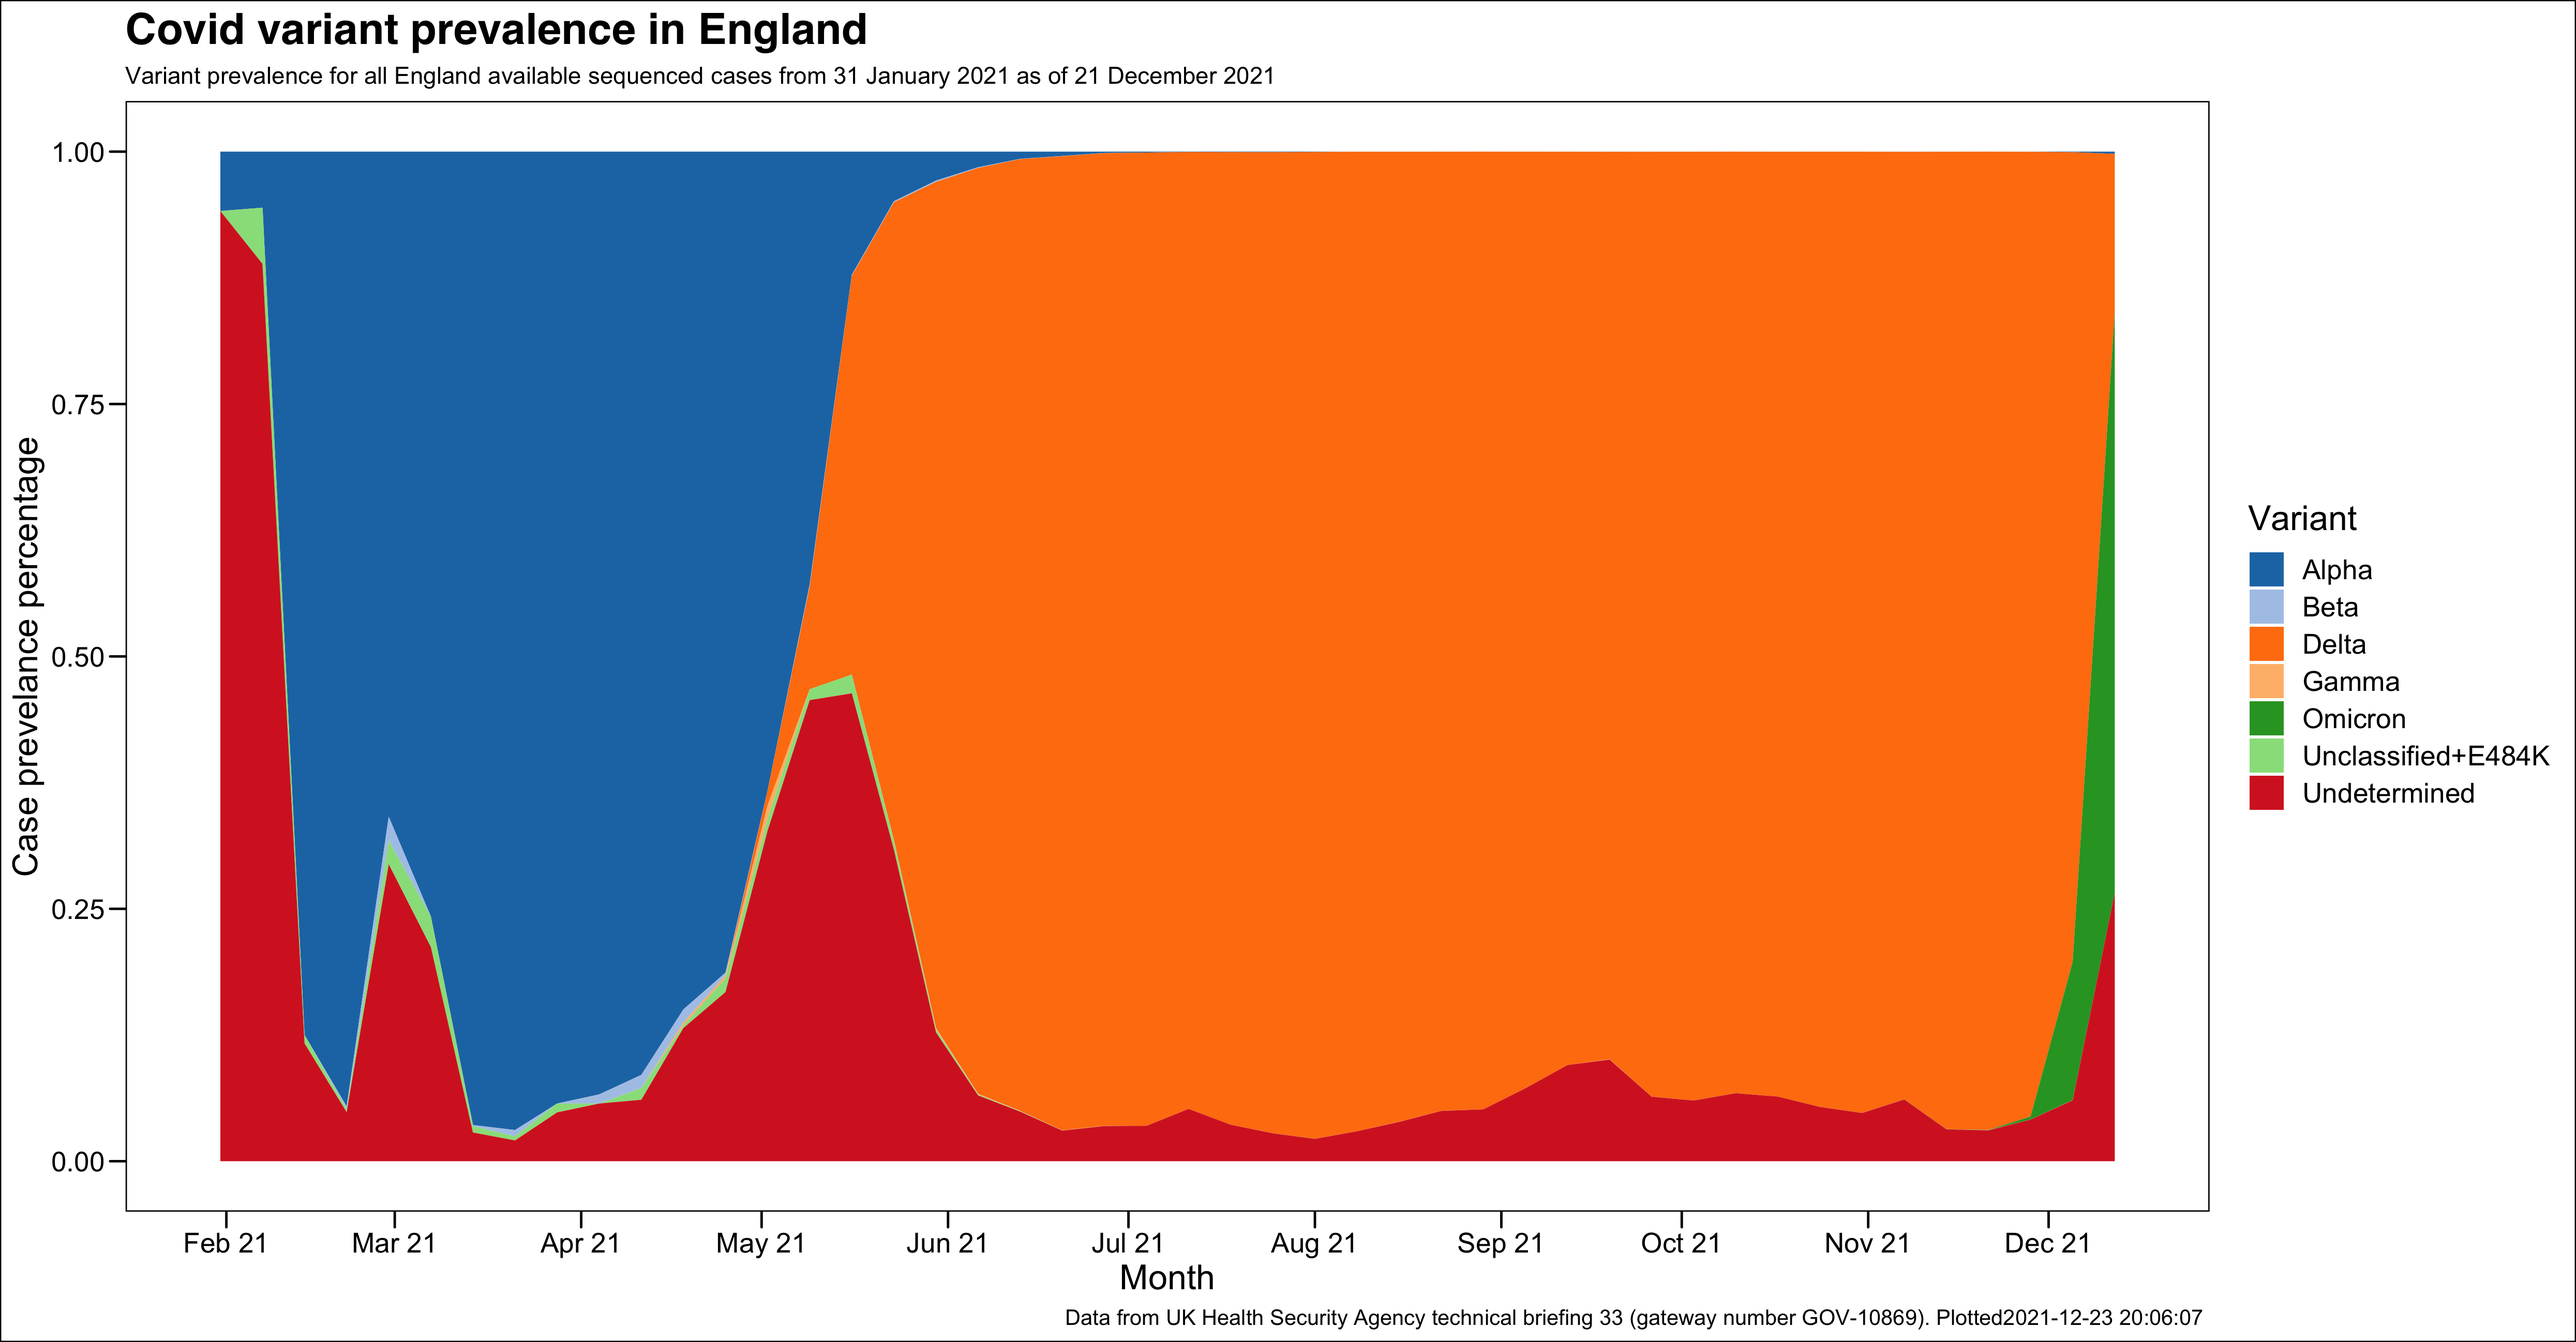
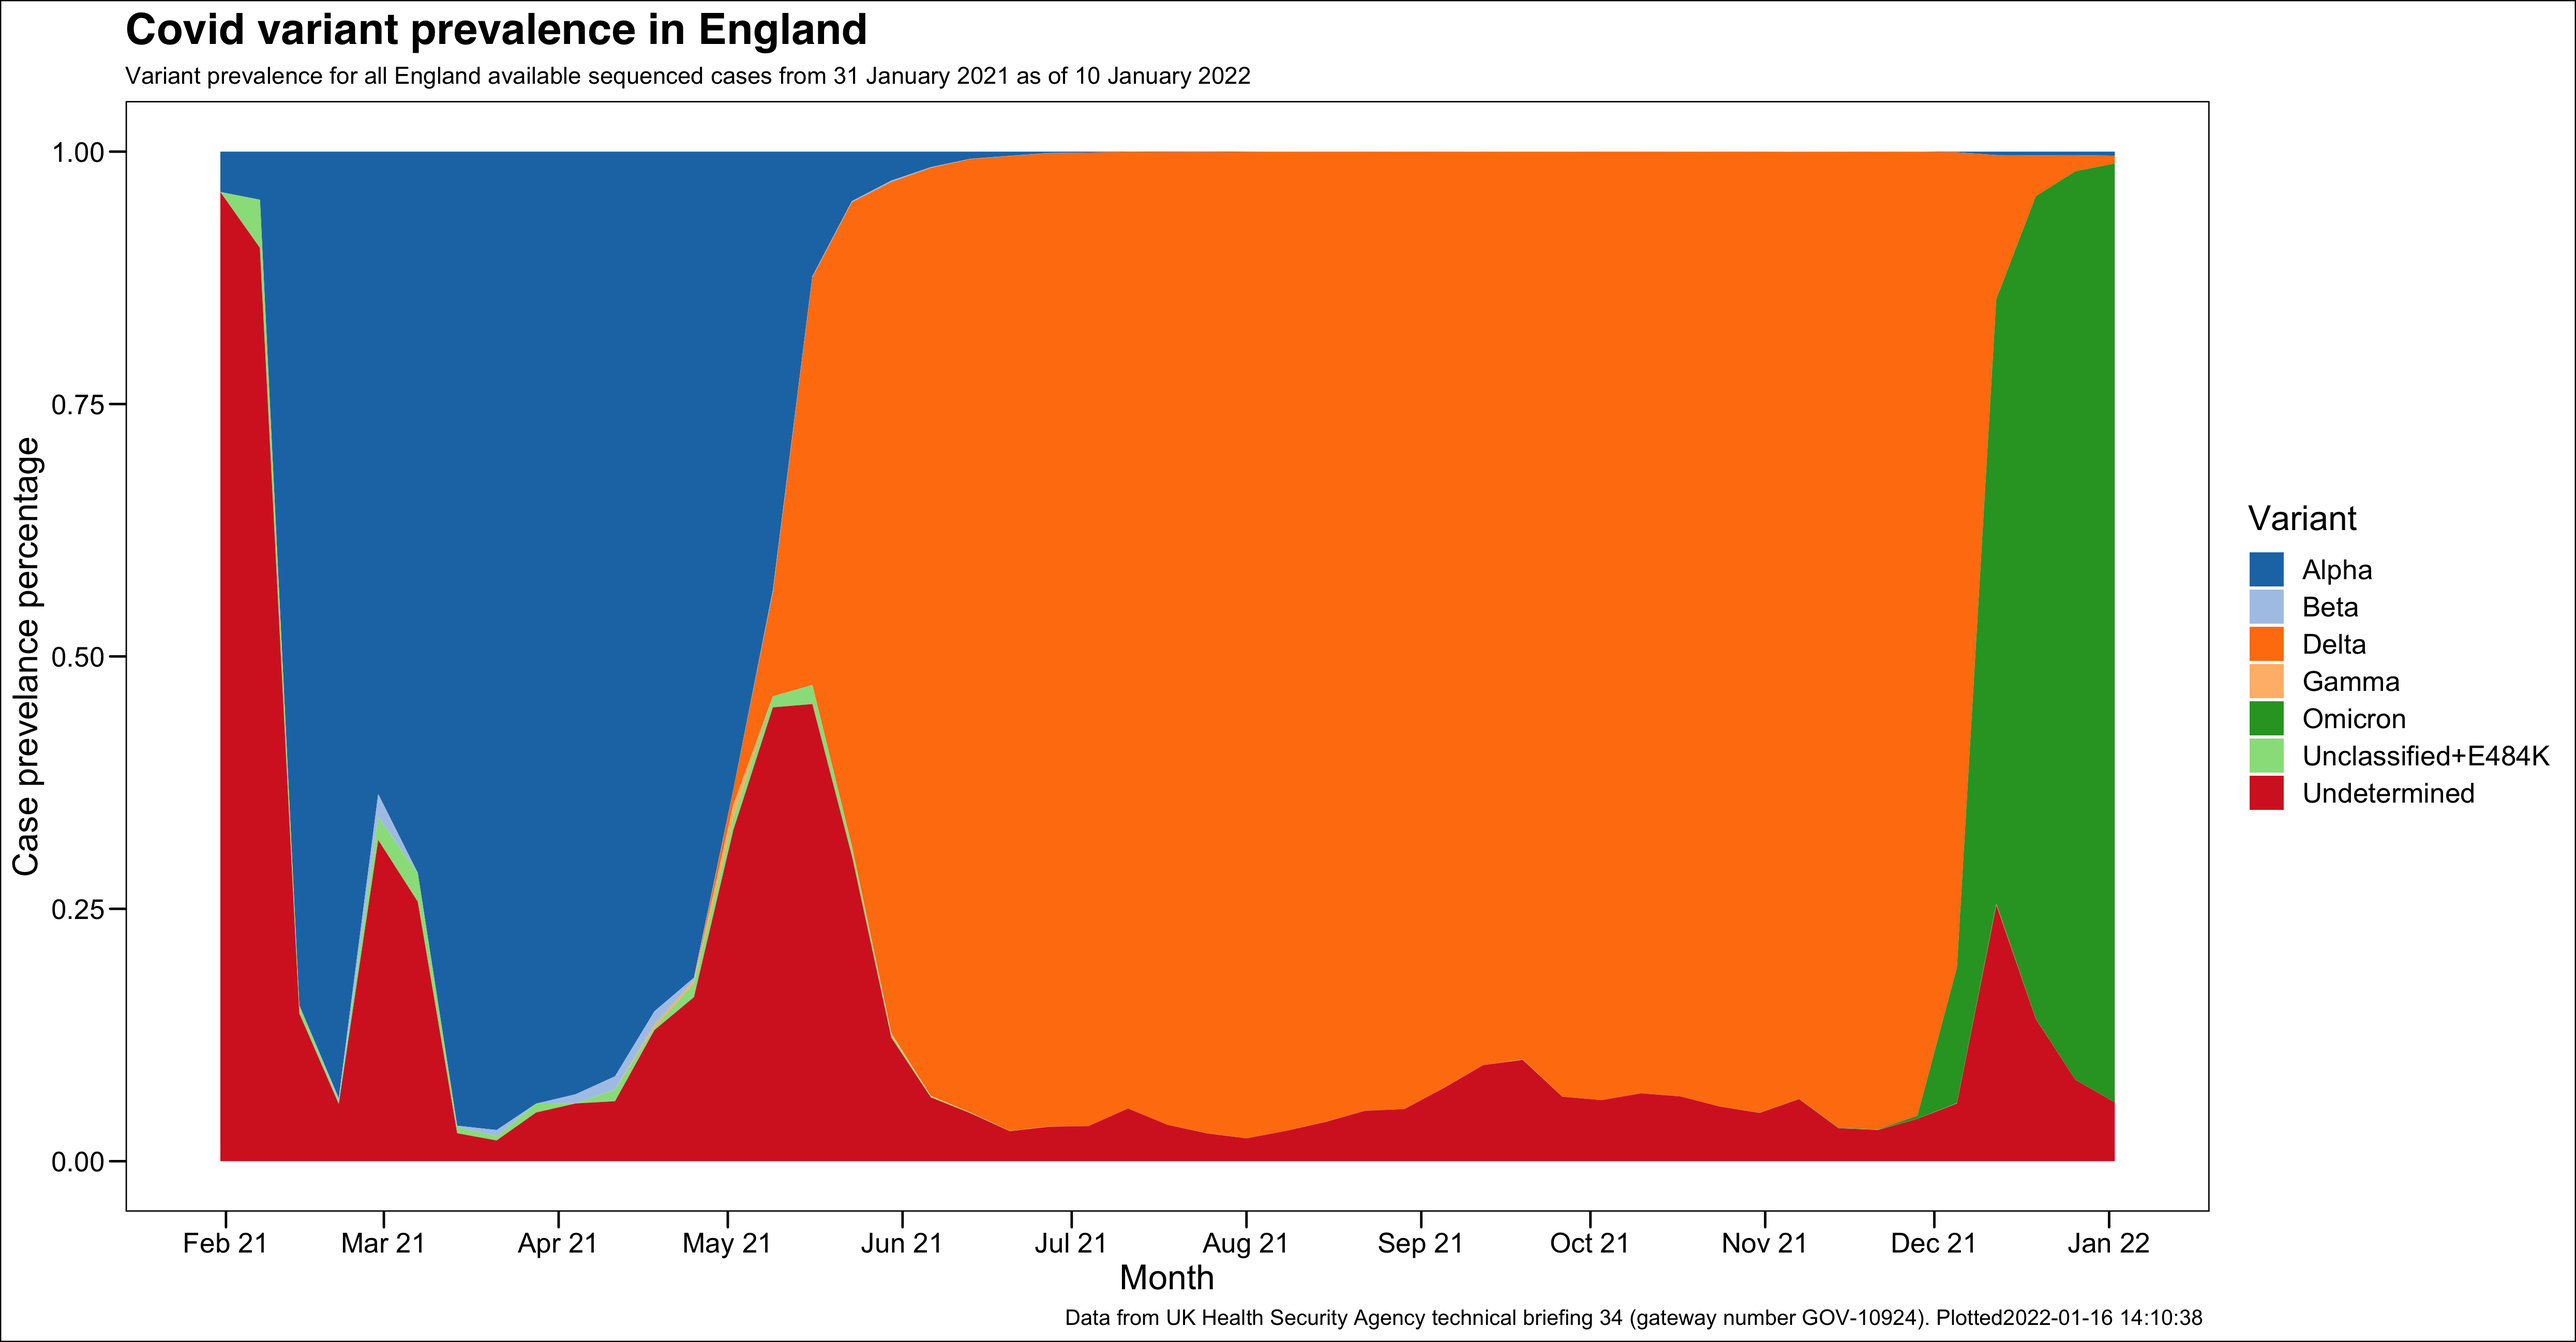
variant update 34

diff --git a/insights.MD b/insights.MD
@@ -21,13 +21,13 @@ Google publish country level summaries of this data on their website but make mo
 [View the underlying code that produces this plot](https://github.com/aharriso11/dorset_covid/blob/main/scripts/google%20mobility.R)
 
 ## Covid variant prevalence
-This data set is made available by the [UK Health Security Agency](https://www.gov.uk/government/organisations/uk-health-security-agency) as part of their [covid technical briefings](https://www.gov.uk/government/publications/investigation-of-sars-cov-2-variants-technical-briefings). These briefings are released fairly frequently but on an irregular basis. The most recent briefing (number 33) was released on 23rd December 2021 and provides information on cases sequenced between 31st January and 21st December.
+This data set is made available by the [UK Health Security Agency](https://www.gov.uk/government/organisations/uk-health-security-agency) as part of their [covid technical briefings](https://www.gov.uk/government/publications/investigation-of-sars-cov-2-variants-technical-briefings). These briefings are released fairly frequently but on an irregular basis. The most recent briefing (number 34) was released on 14th January 2022 and provides information on cases sequenced between 31st January 2021 and 10th January 2022.
 
 The variant prevalence data set shows the overwhelming prevalence of the Alpha "Kent" variant throughout the winter and into spring, whereupon it is quickly edged out by the Delta variant through May and June. The Omicron variant appears in late November and quickly begins to edge out the Delta variant.
 
 [![Variant data](./output/england_variants.png)](./output/england_variants.png?raw=true)
 
-[View the underlying code that produces this plot](https://github.com/aharriso11/dorset_covid/blob/main/scripts/Variant%20prevalence/covid%20d%20o%20age%2033.R)
+[View the underlying code that produces this plot](https://github.com/aharriso11/dorset_covid/blob/main/scripts/Variant%20prevalence/covid%20d%20o%20age%2034.R)
 
 ## A comparison of covid vaccination status with deprivation
 This data plot combines two data sets: the percentage of people who have not yet received  a first covid vaccination, plotted against the [index of multiple deprivations](https://www.gov.uk/government/statistics/english-indices-of-deprivation-2019) score in their area. The data plot shows:

diff --git a/README.md b/README.md
@@ -79,11 +79,15 @@ A dynamic data plot showing the new cases broken down by age which can also be s
 The metric description of this chart comes from the [newly published metrics documentation](https://coronavirus.data.gov.uk/metrics/doc/uniqueCasePositivityBySpecimenDateRollingSum) on the UKHSA dashboard.
 [![Dorset case positivity comparison](./output/daily_test_positivity.png)](./output/daily_test_positivity.png?raw=true)
 
-## Dorset daily lateral flow device tests recorded
-This chart shows the number of lateral flow device tests (both negative and positive) being recorded each day, broken down by local authority. A negative and positive breakdown is not available at local authority level, for more information on testing [visit the relevant page of the UKHSA dashboard](https://coronavirus.data.gov.uk/details/testing)
-[![Dorset daily LFD tests](./output/daily_lfd.png)](./output/daily_lfd.png)
+## Dorset daily covid tests recorded
+This chart shows the number of PCR and lateral flow device tests (both negative and positive) being recorded each day, broken down by local authority. A negative and positive breakdown is not available at local authority level, for more information on testing [visit the relevant page of the UKHSA dashboard](https://coronavirus.data.gov.uk/details/testing)
+[![Dorset daily tests](./output/dorset_testing.png)](./output/dorset_testing.png?raw=true)
 
 # Hospital activity
+
+## Hospital activity phase portrait
+This chart compares new covid-19 admissions with the number of cases in hospital.
+[![Hospital phase portrait](./output/hosp_phase.png)](./output/hosp_phase.png?raw=true)
 
 ## Dorset daily hospital admissions
 See [NHS trust level data for hospital admissions, bed occupancy and deaths](hospital_activity.MD).

diff --git a/CHANGELOG.md b/CHANGELOG.md
@@ -2,6 +2,12 @@
 
 ## Change log
 
+### Sunday 16th January 2022
+
+#### New products
+- Dorset covid testing
+- Hospital activity phase portrait
+
 ### Tuesday 4th January 2022
 
 #### New products
